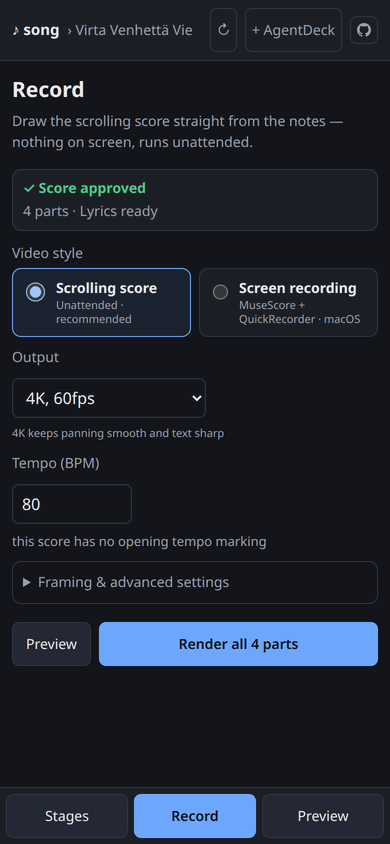
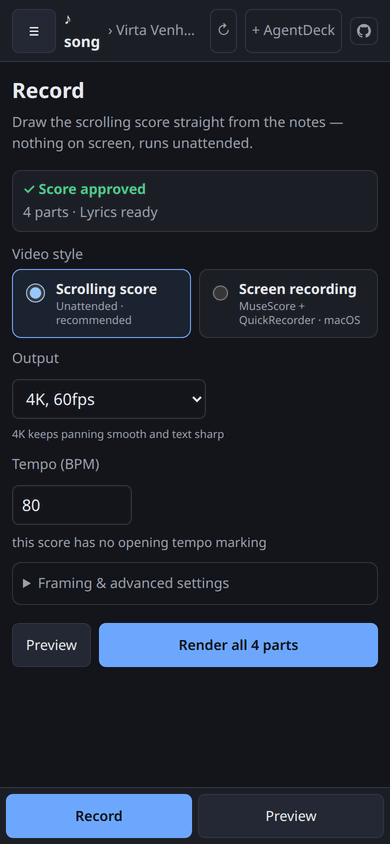
Docs: homr box is on the Scan stage, phone drawer; changelog #262, #263 (#260)

diff --git a/README.md b/README.md
@@ -55,8 +55,9 @@ into two panes to compare any two of them.
 
 ## On a phone
 
-Below tablet width the three panes become one at a time, with a bar at the bottom
-to switch between the stage list, the current stage and the score. The app can
+Below tablet width the stage panel and the score are shown one at a time, with a
+bar at the bottom to switch between them. The stage list slides in from the ☰ in
+the header, and the score zooms with a pinch or its − / + / Fit buttons. The app can
 be installed to the home screen (see [docs/PWA.md](docs/PWA.md)).
 
 <img src="docs/images/phone.png" width="260" alt="Record stage on a phone">
@@ -72,7 +73,7 @@ be installed to the home screen (see [docs/PWA.md](docs/PWA.md)).
 `song.py` uses the project's virtualenv (`.venv/bin/python song.py` if `.venv` is
 not active). Setting up a machine — Python, MuseScore 3, ffmpeg, poppler, and the
 optional homr install — is in **[SETUP.md](SETUP.md)**. homr can also be installed
-or updated from the Library page.
+or updated from the Scan stage, in its *homr* box.
 
 Each song is a folder under `songs/` with its state in `songs/<song>/.song.json`.
 The songs are copyrighted sheet music, so they live in a separate private

diff --git a/CHANGELOG.md b/CHANGELOG.md
@@ -7,6 +7,10 @@ developers are listed under *Behind the scenes*.
 
 ## 2026-10-04
 
+- On a phone, the stage list moves into a ☰ drawer, the bottom bar stays on
+  screen, and the score zooms itself (pinch, or − / + / Fit). (#263)
+- The homr install box moved from the Library page to the Scan panel, where homr
+  is used. (#262)
 - The header has an always-visible **Reload** button. (#259)
 - Page images cut from a PDF follow the PDF they came from, so a replaced PDF is
   not shown with old pictures. (#256)
